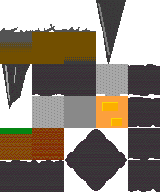
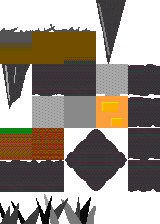
working on additional content

diff --git a/js/resources.js b/js/resources.js
@@ -15,6 +15,7 @@ game.resources = [
   { name: 'levelthree', type: 'tmx', src: 'data/map/levelthree.tmx' },
   { name: 'levelthreebg', type: 'image', src: 'data/map/levelthreebg.png' },
   { name: 'leveltwo', type: 'tmx', src: 'data/map/leveltwo.tmx' },
+  { name: 'leveltwob', type: 'tmx', src: 'data/map/leveltwob.tmx' },
   { name: 'leveltwobg', type: 'image', src: 'data/map/leveltwobg.png' },
   { name: 'metatiles32x32', type: 'image', src: 'data/map/metatiles32x32.png' },
   { name: 'tiles', type: 'image', src: 'data/map/tiles.png' },

diff --git a/js/screens/play_screen.js b/js/screens/play_screen.js
@@ -29,6 +29,7 @@ game.PlayScreen = me.ScreenObject.extend({
       'levelonec': 'ld29p1',
       'surfacetwo': 'ld29p1',
       'leveltwo': 'ld29p1',
+      'leveltwob': 'ld29p1',
       'levelthree': 'ld29p2',
       'final': 'ld29final'
     };
